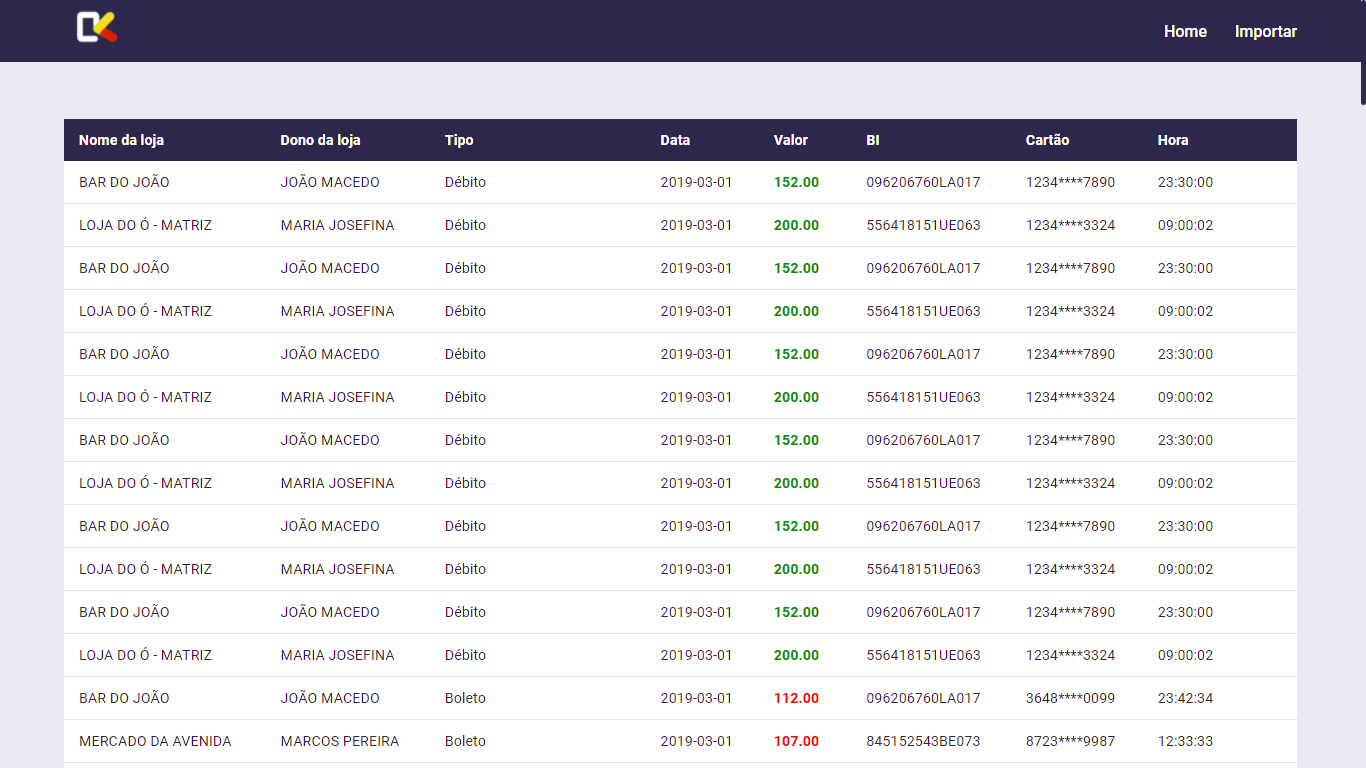
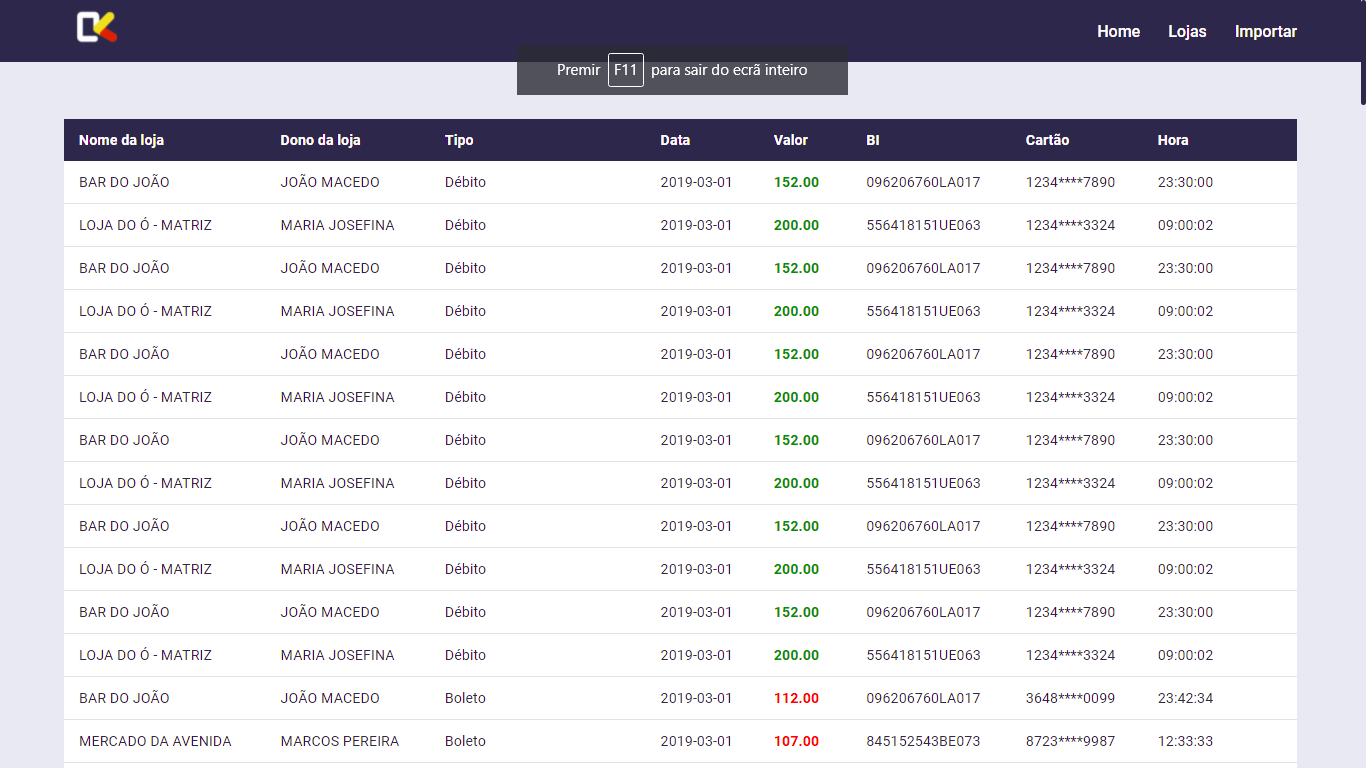
Finalização do projecto

Changed region(s): [[0.369, 0.0625, 0.6457, 0.125], [0.7994, 0.0312, 0.8917, 0.0625]]

diff --git a/README.md b/README.md
@@ -7,7 +7,7 @@
 
 # Setup
 
-1. Primeiro, faça a configuracao da conexão da base de dados e mudar as variaveis de ROOT em [Config.php](https://github.com/Josemar-cafumana/desafio-dev-fullstack/blob/main/source/Config.php) .
+1. Primeiro, faça a conexão da base de dados e mude a variavel de ROOT em [Config.php](https://github.com/Josemar-cafumana/desafio-dev-fullstack/blob/main/source/Config.php) .
 2. Em seguida, Importar o arquivo sql para a criação e insercao de dados constantes.
 
 
@@ -16,7 +16,8 @@
 
 $router->get("/", "Web:home", "web.home"); \
 $router->get("/importar", "Web:importar", "web.importar"); \
-$router->post("/create", "Web:store", "web.store"); 
+$router->get("/transacao/lojas", "Web:loja", "web.loja"); \
+$router->post("/create", "Web:store", "web.store");
 
 
 
